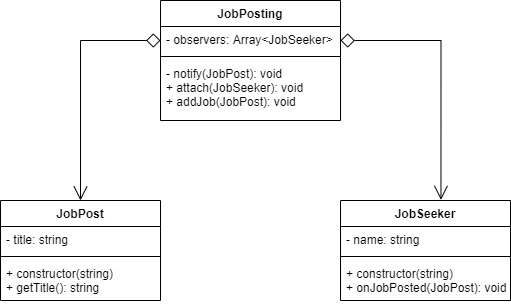
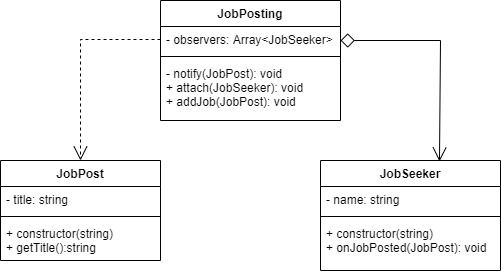
fix observer patern

Changed region(s): [[0.0, 0.0, 1.0, 0.9927], [0.3293, 0.438, 0.6587, 0.4672]]

diff --git a/Behavioral/Observer/observer.ts b/Behavioral/Observer/observer.ts
@@ -1,5 +1,5 @@
 class JobPost {
-	protected title: string
+	private title: string
 
 	constructor(title: string) {
 		this.title = title
@@ -11,7 +11,7 @@ class JobPost {
 }
 
 class JobSeeker {
-	protected name: string
+	private name: string
 
 	constructor(name: string) {
 		this.name = name
